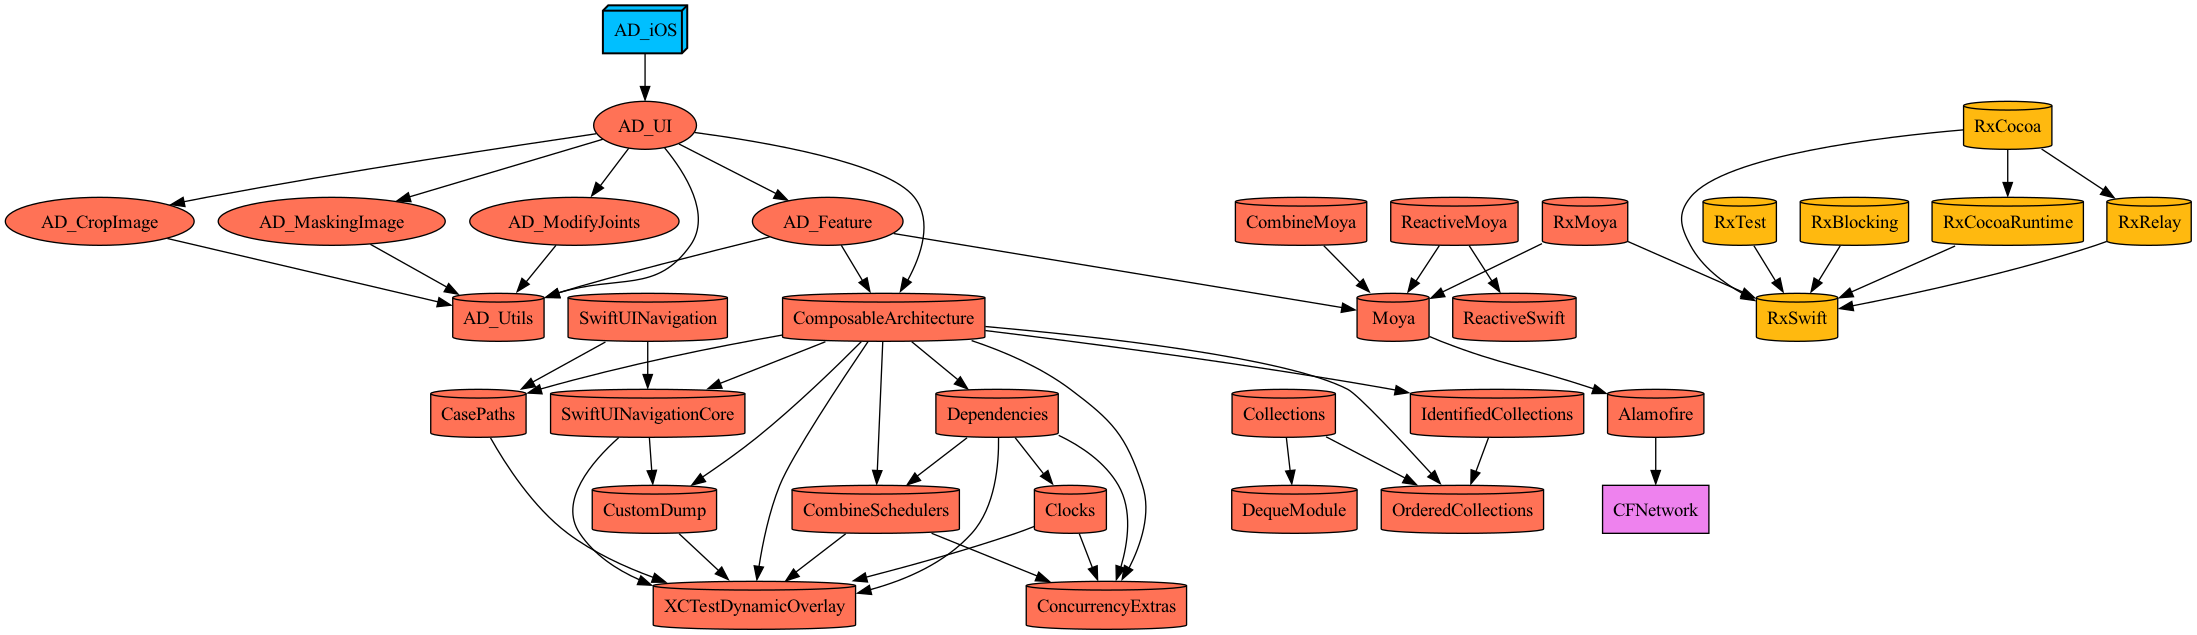
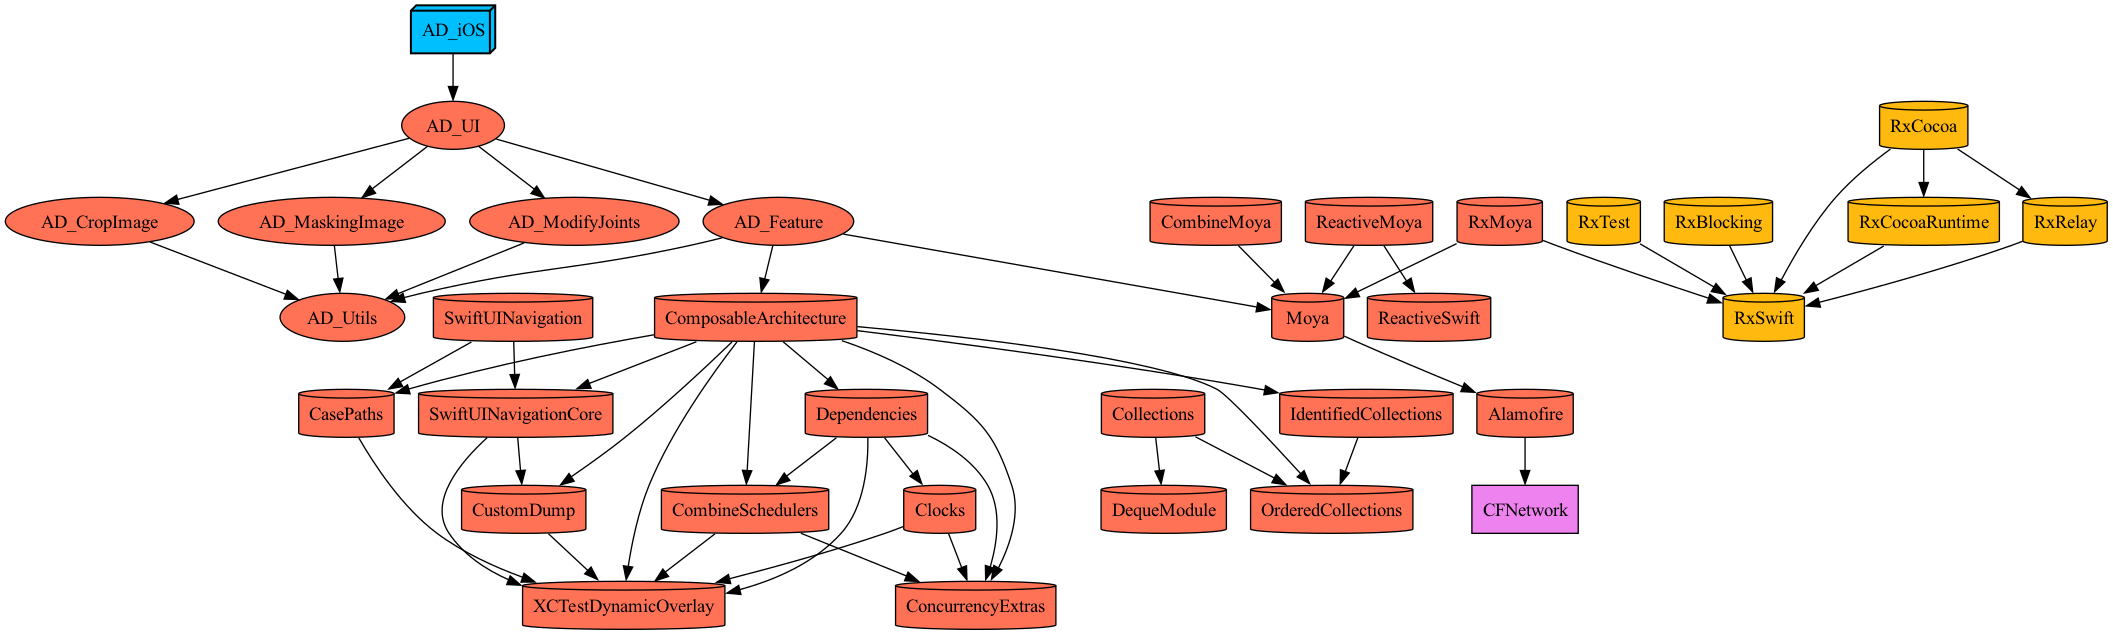
[Chore] : Info.plist device orientation setting
Git : #31

diff --git a/Plugins/ProjectEnvironment/ProjectDescriptionHelpers/Dependency+MyModule/MyModule+TargetDependency.swift b/Plugins/ProjectEnvironment/ProjectDescriptionHelpers/Dependency+MyModule/MyModule+TargetDependency.swift
@@ -8,12 +8,18 @@
 import ProjectDescription
 
 public extension TargetDependency {
-  static func debug(_ myModule: MyModule) -> TargetDependency {
+  static func debug(_ myModule: MyModule) -> Self {
     return .project(target: myModule.debugName, path: myModule.path)
   }
   
-  static func release(_ myModule: MyModule) -> TargetDependency {
+  static func release(_ myModule: MyModule) -> Self {
     return .project(target: myModule.name, path: myModule.path)
+  }
+}
+
+public extension Path {
+  static func myModule(_ myModule: MyModule) -> Self {
+    return myModule.path
   }
 }
 

diff --git a/Workspace.swift b/Workspace.swift
@@ -1,27 +1,12 @@
 import ProjectDescription
 import ProjectEnvironment
 
-//let ADiOSScheme: Scheme = .makeScheme(
-//  targetName: MyModule.AD_iOS.name,
-//  target: .release,
-//  withTest: false
-//)
-//
-//let ADUIScheme: Scheme = .makeScheme(
-//  targetName: MyModule.AD_UI.name,
-//  target: .release,
-//  withTest: false
-//)
-
 let workspace = Workspace(
   name: "AnimatedDrawings",
   projects: [
-    "Projects/App/AD_iOS"
+    .myModule(.AD_iOS)
   ],
-  schemes: [
-//    ADiOSScheme,
-//    ADUIScheme
-  ],
+  schemes: [],
   additionalFiles: [
     "README.md"
   ]

diff --git a/Projects/UI/AD_UIHelper/AD_CropImage/Project.swift b/Projects/UI/AD_UIHelper/AD_CropImage/Project.swift
@@ -9,17 +9,18 @@ import ProjectDescription
 import ProjectEnvironment
 
 let myModule: MyModule = .AD_CropImage
+let releaseTarget: Target = .makeTarget(
+  targetName: myModule.name,
+  product: .staticLibrary,
+  dependencies: [
+    .release(.AD_Utils)
+  ]
+)
 
 let project: Project = .makeProject(
   myModule: myModule,
   targets: [
-    .makeTarget(
-      targetName: myModule.name,
-      product: .staticFramework,
-      dependencies: [
-        .release(.AD_Utils)
-      ]
-    )
+    releaseTarget
   ],
   schemes: []
 )

diff --git a/Projects/App/AD_iOS/Project.swift b/Projects/App/AD_iOS/Project.swift
@@ -7,7 +7,8 @@ let infoPlist: InfoPlist = .extendingDefault(with: [
   "ENABLE_TESTS": .boolean(true),
   "NSPhotoLibraryUsageDescription": "We need access to photo library so that photos can be selected",
   "NSPhotoLibraryAddUsageDescription": "This app requires access to the photo library.",
-  "UIUserInterfaceStyle": "Light"
+  "UIUserInterfaceStyle": "Light",
+  "UISupportedInterfaceOrientations": ["UIInterfaceOrientationPortrait"]
 ])
 
 let myModule: MyModule = .AD_iOS

diff --git a/Projects/Share/AD_Utils/Project.swift b/Projects/Share/AD_Utils/Project.swift
@@ -2,14 +2,15 @@ import ProjectDescription
 import ProjectEnvironment
 
 let myModule: MyModule = .AD_Utils
+let releaseTarget: Target = .makeTarget(
+  targetName: myModule.name,
+  product: .staticLibrary
+)
 
 let project: Project = .makeProject(
   myModule: myModule,
   targets: [
-    .makeTarget(
-      targetName: myModule.name,
-      product: .staticFramework
-    )
+    releaseTarget
   ],
   schemes: []
 )

diff --git a/Projects/UI/AD_UI/Project.swift b/Projects/UI/AD_UI/Project.swift
@@ -14,9 +14,7 @@ let project: Project = .makeProject(
         .release(.AD_CropImage),
         .release(.AD_MaskingImage),
         .release(.AD_ModifyJoints),
-        .release(.AD_Feature),
-        .release(.AD_Utils),
-        .ComposableArchitecture
+        .release(.AD_Feature)
       ]
     )
   ],

diff --git a/Projects/UI/AD_UIHelper/AD_MaskingImage/Project.swift b/Projects/UI/AD_UIHelper/AD_MaskingImage/Project.swift
@@ -15,7 +15,7 @@ let project: Project = .makeProject(
   targets: [
     .makeTarget(
       targetName: myModule.name,
-      product: .staticFramework,
+      product: .staticLibrary,
       dependencies: [
         .release(.AD_Utils)
       ]

diff --git a/Projects/UI/AD_UIHelper/AD_ModifyJoints/Project.swift b/Projects/UI/AD_UIHelper/AD_ModifyJoints/Project.swift
@@ -15,7 +15,7 @@ let project: Project = .makeProject(
   targets: [
     .makeTarget(
       targetName: myModule.name,
-      product: .staticFramework,
+      product: .staticLibrary,
       dependencies: [
         .release(.AD_Utils)
       ]
